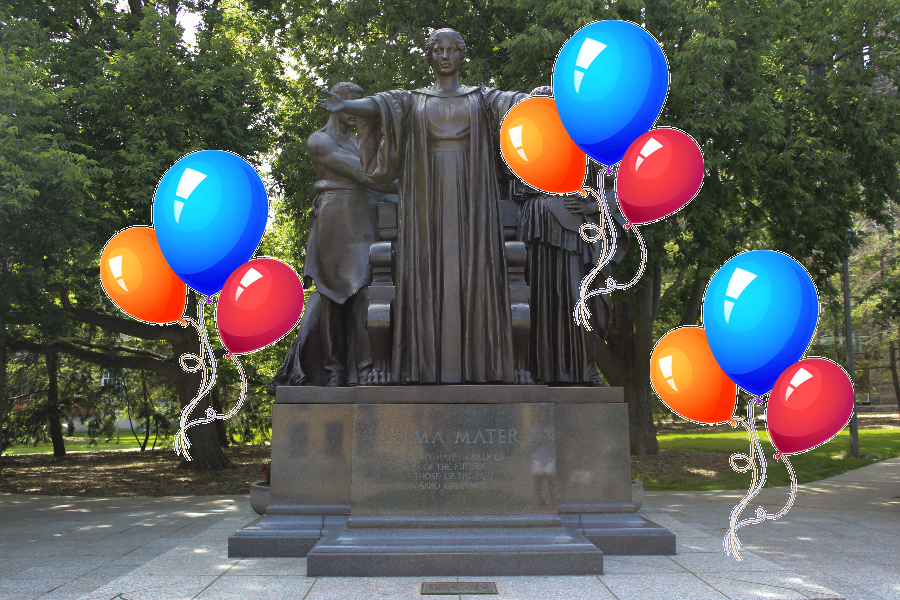
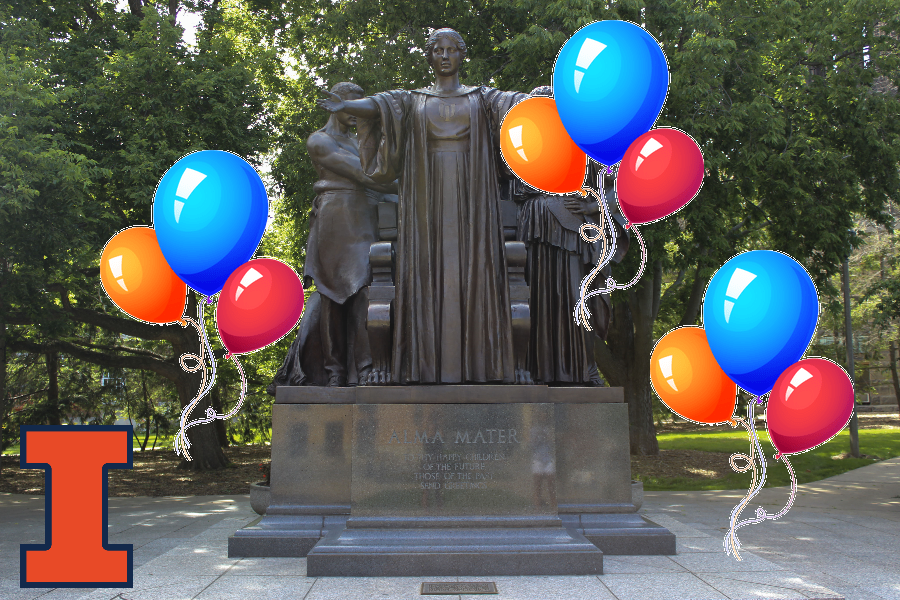
finished mp stickers

Changed region(s): [[0.0, 0.69, 0.1556, 0.99]]

diff --git a/mp_stickers/main.cpp b/mp_stickers/main.cpp
@@ -8,19 +8,21 @@ int main()
   // Reminder:
   //   Before exiting main, save your creation to disk as myImage.png
   //
-  Image alma, s1, s2, s3, output;
+  Image alma, s1, s2, s3, s4;
   alma.readFromFile("alma.png");
   s1.readFromFile("balloons.png");
   s2.readFromFile("balloons.png");
   s3.readFromFile("balloons.png");
+  s4.readFromFile("i.png");
 
-  StickerSheet myImage(alma, 3);
+  StickerSheet myImage(alma, 4);
   myImage.addSticker(s1, 100, 150);
   myImage.addSticker(s2, 500, 20);
   myImage.addSticker(s3, 650, 250);
-  output = myImage.render();
+  s4.scale(0.5);
+  myImage.addSticker(s4, 20, 425);
 
-  output.writeToFile("myImage.png");
+  (myImage.render()).writeToFile("myImage.png");
 
   return 0;
 }
